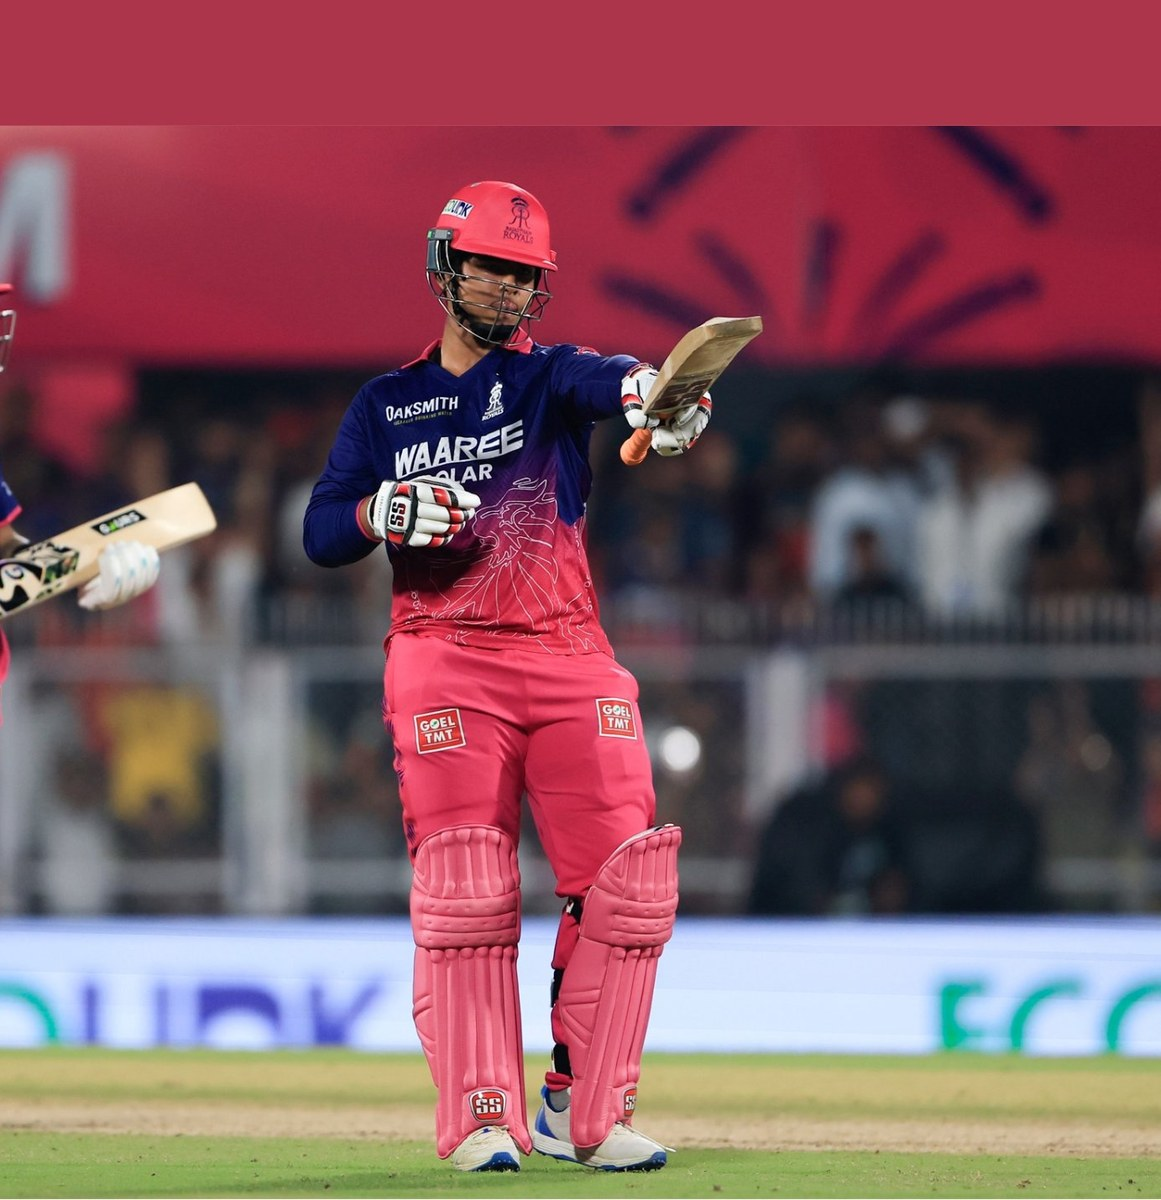
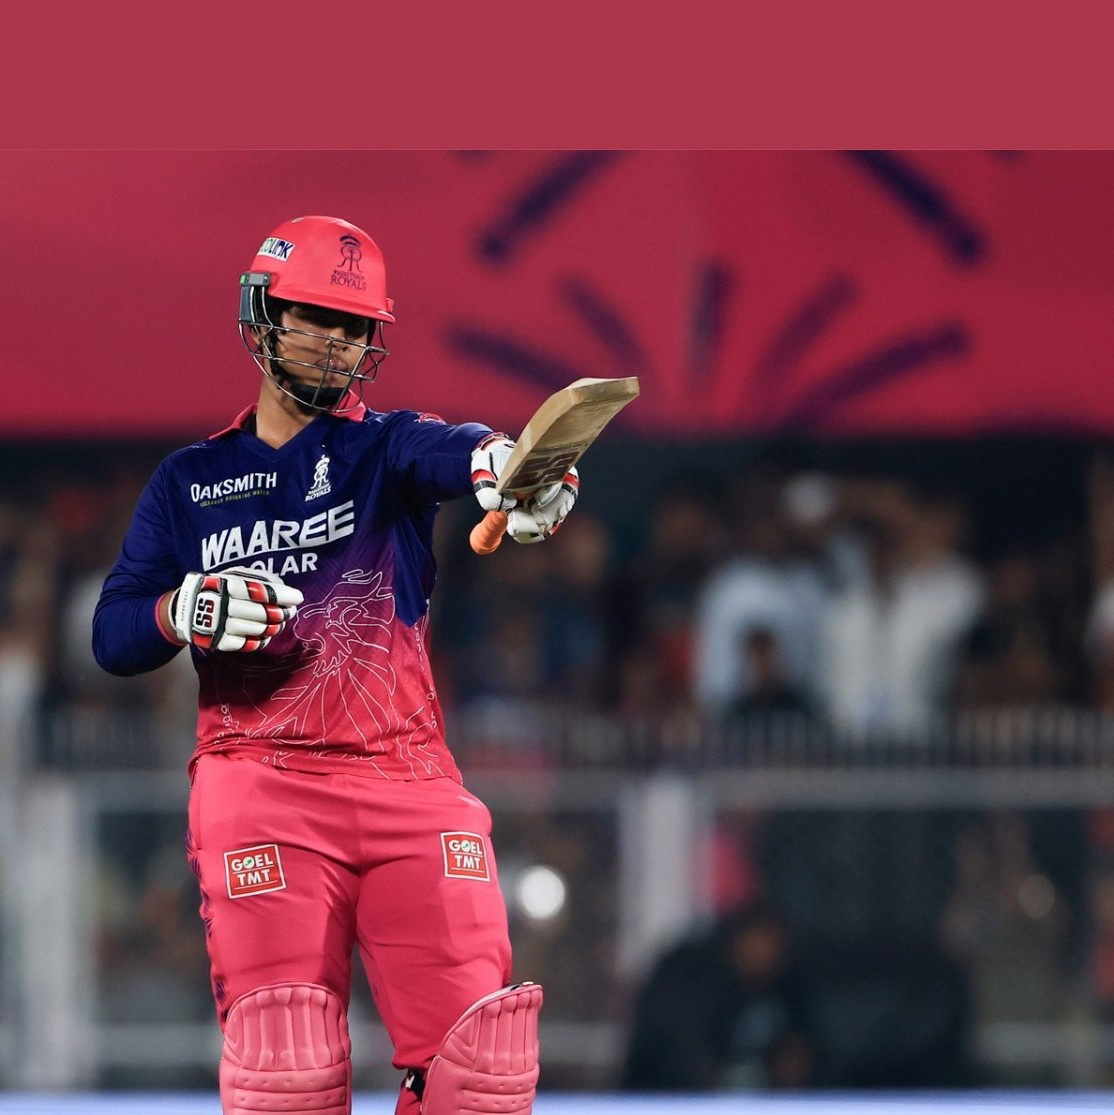
[All main pages] Re-crop Vaibhav image + position top right on all screen sizes
- Re-cropped image to zoom in on Vaibhav (right 58%, top 78% of original)
- backgroundPosition: 'top right' on mobile, tablet and desktop all pages

diff --git a/src/components/home-page/HomeHero.jsx b/src/components/home-page/HomeHero.jsx
@@ -11,8 +11,8 @@ const PROGRAMS = [
 const HomeHero = ({ onRegisterClick }) => {
     return (
         <section className="relative min-h-screen flex items-end overflow-hidden bg-rr-dark">
-            <div className="absolute inset-0 bg-cover bg-no-repeat md:hidden" style={{ backgroundImage: "url('/assets/hero-vs-special.jpg')", backgroundPosition: '60% 0%' }} />
-            <div className="absolute inset-0 bg-cover bg-no-repeat hidden md:block" style={{ backgroundImage: "url('/assets/hero-vs-special.jpg')", backgroundPosition: '60% 0%' }} />
+            <div className="absolute inset-0 bg-cover bg-no-repeat md:hidden" style={{ backgroundImage: "url('/assets/hero-vs-special.jpg')", backgroundPosition: 'top right' }} />
+            <div className="absolute inset-0 bg-cover bg-no-repeat hidden md:block" style={{ backgroundImage: "url('/assets/hero-vs-special.jpg')", backgroundPosition: 'top right' }} />
             <div className="absolute inset-0 bg-gradient-to-t from-rr-dark via-rr-dark/80 to-rr-dark/50 md:hidden" />
             <div className="absolute inset-0 bg-gradient-to-r from-rr-dark via-rr-dark/75 to-transparent hidden md:block" />
             <div className="absolute bottom-0 left-0 right-0 h-64 bg-gradient-to-t from-rr-dark to-transparent" />

diff --git a/src/components/master-landing-page/MasterHero.jsx b/src/components/master-landing-page/MasterHero.jsx
@@ -16,7 +16,7 @@ const MasterHero = () => {
                     className="absolute inset-0 w-full h-full bg-cover bg-no-repeat bg-[center_top] md:hidden"
                     style={{
                         backgroundImage: "url('/assets/hero-vs-special.jpg')",
-                        backgroundPosition: '60% 0%'
+                        backgroundPosition: 'top right'
                     }}
                 >
                     <div className="absolute inset-0 bg-gradient-to-t from-rr-dark via-rr-dark/70 to-rr-dark/40" />
@@ -27,7 +27,7 @@ const MasterHero = () => {
                     className="absolute inset-0 w-full h-full bg-cover bg-no-repeat hidden md:block"
                     style={{
                         backgroundImage: "url('/assets/hero-vs-special.jpg')",
-                        backgroundPosition: "60% 0%"
+                        backgroundPosition: 'top right'
                     }}
                 >
                     <div className="absolute inset-0 bg-gradient-to-r from-rr-dark via-rr-dark/75 to-transparent" />

diff --git a/src/components/holiday-programs/HeroSection.jsx b/src/components/holiday-programs/HeroSection.jsx
@@ -12,12 +12,12 @@ const HeroSection = () => {
             {/* Mobile background */}
             <div
                 className="absolute inset-0 bg-cover bg-no-repeat md:hidden"
-                style={{ backgroundImage: "url('/assets/hero-vs-special.jpg')", backgroundPosition: '60% 0%' }}
+                style={{ backgroundImage: "url('/assets/hero-vs-special.jpg')", backgroundPosition: 'top right' }}
             />
             {/* Desktop background */}
             <div
                 className="absolute inset-0 bg-cover bg-no-repeat hidden md:block"
-                style={{ backgroundImage: "url('/assets/hero-vs-special.jpg')", backgroundPosition: '60% 0%' }}
+                style={{ backgroundImage: "url('/assets/hero-vs-special.jpg')", backgroundPosition: 'top right' }}
             />
             {/* Gradient overlays */}
             <div className="absolute inset-0 bg-gradient-to-t from-rr-dark via-rr-dark/60 to-rr-dark/20 md:hidden" />
